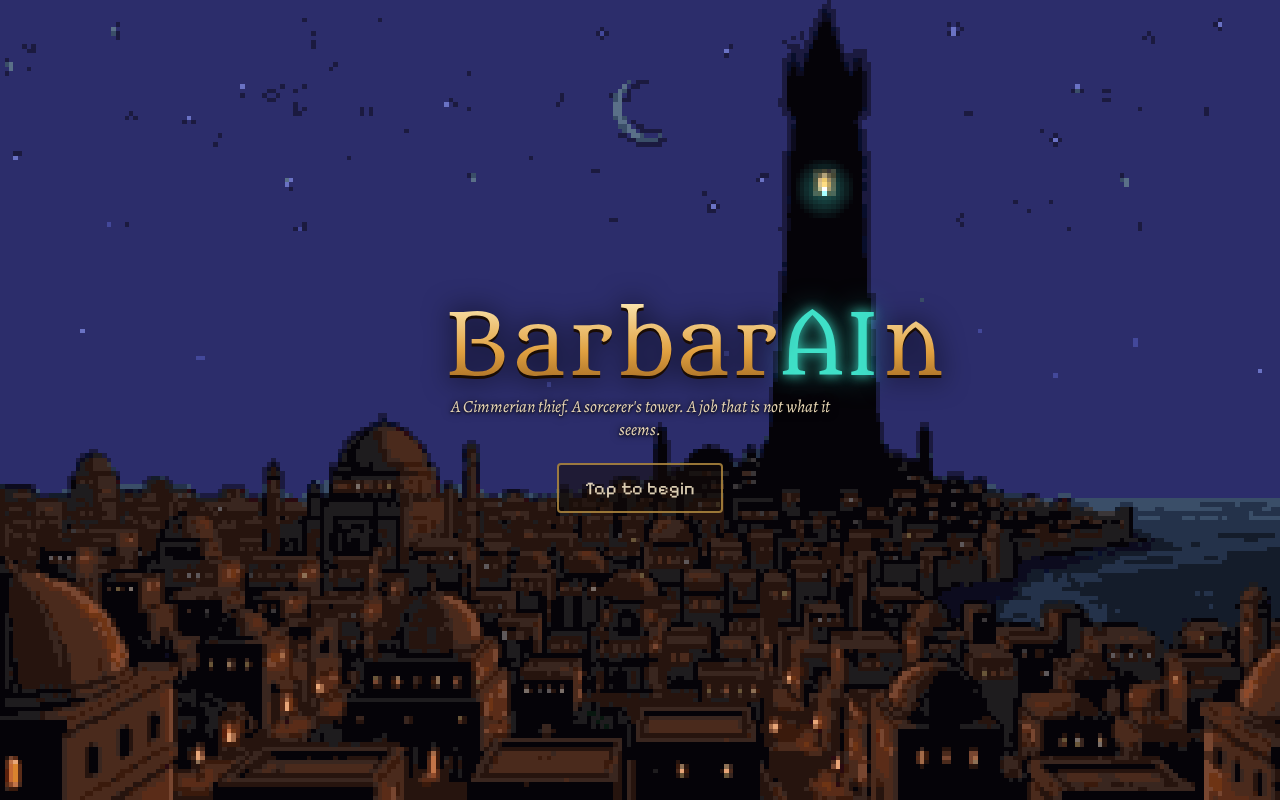
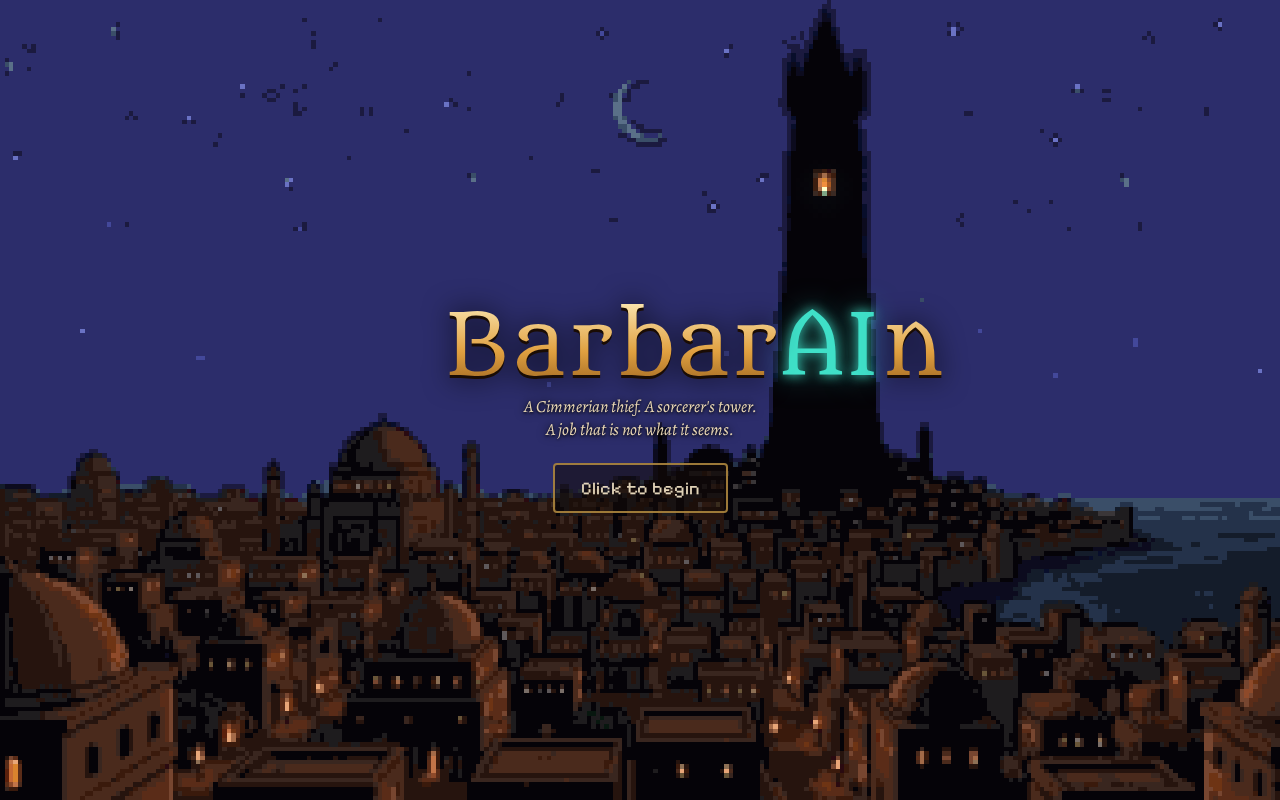
Title screen: break the tagline between sentences, never inside one

Changed region(s): [[0.3438, 0.5, 0.6562, 0.5625], [0.4062, 0.5938, 0.5625, 0.625], [0.625, 0.1875, 0.6875, 0.2812]]

diff --git a/game/style.css b/game/style.css
@@ -51,7 +51,8 @@ body.layout-desktop.font-m { --story-size: 18px; } body.layout-desktop.font-l { 
   filter: drop-shadow(0 3px 0 #1a0c04) drop-shadow(0 0 14px rgba(0, 0, 0, 0.8)); }
 .logo .ai { background: none; -webkit-text-fill-color: var(--teal); color: var(--teal); text-shadow: 0 0 10px rgba(63, 224, 200, 0.85), 0 0 24px rgba(63, 224, 200, 0.5); animation: aiGlow 3.2s ease-in-out infinite; filter: none; }
 @keyframes aiGlow { 0%, 100% { text-shadow: 0 0 6px rgba(63, 224, 200, 0.6), 0 0 16px rgba(63, 224, 200, 0.3); } 50% { text-shadow: 0 0 12px rgba(63, 224, 200, 1), 0 0 30px rgba(63, 224, 200, 0.6); } }
-.tagline { font-style: italic; color: #e8d6b4; text-shadow: 0 1px 3px #000, 0 0 10px #000; margin: 0 0 22px; font-size: 17px; }
+.tagline { font-style: italic; color: #e8d6b4; text-shadow: 0 1px 3px #000, 0 0 10px #000; margin: 0 0 22px; font-size: 17px; text-wrap: balance; }
+.tagline span { white-space: nowrap; }
 .t-tap { background: rgba(20, 12, 8, 0.6); border: 2px solid var(--bronze); padding: 12px 26px; font-size: 18px; border-radius: 4px; animation: pulse 2s ease-in-out infinite; }
 @keyframes pulse { 0%, 100% { opacity: 0.75; } 50% { opacity: 1; } }
 .t-menu { width: min(80vw, 280px); margin: 0 auto; }

diff --git a/game/index.html b/game/index.html
@@ -33,7 +33,7 @@
   <canvas id="title-art" width="320" height="180" aria-hidden="true"></canvas>
   <div class="t-inner">
     <h1 class="logo" aria-label="BarbarAIn"><span>Barbar</span><span class="ai">AI</span><span>n</span></h1>
-    <p class="tagline">A Cimmerian thief. A sorcerer's tower. A job that is not what it seems.</p>
+    <p class="tagline"><span>A Cimmerian thief.</span> <span>A sorcerer's tower.</span> <span>A job that is not what it seems.</span></p>
     <button id="t-tap" class="t-tap">Tap to begin</button>
     <nav id="t-menu" class="t-menu" hidden>
       <button id="t-continue" class="btn wide primary">Continue</button>
